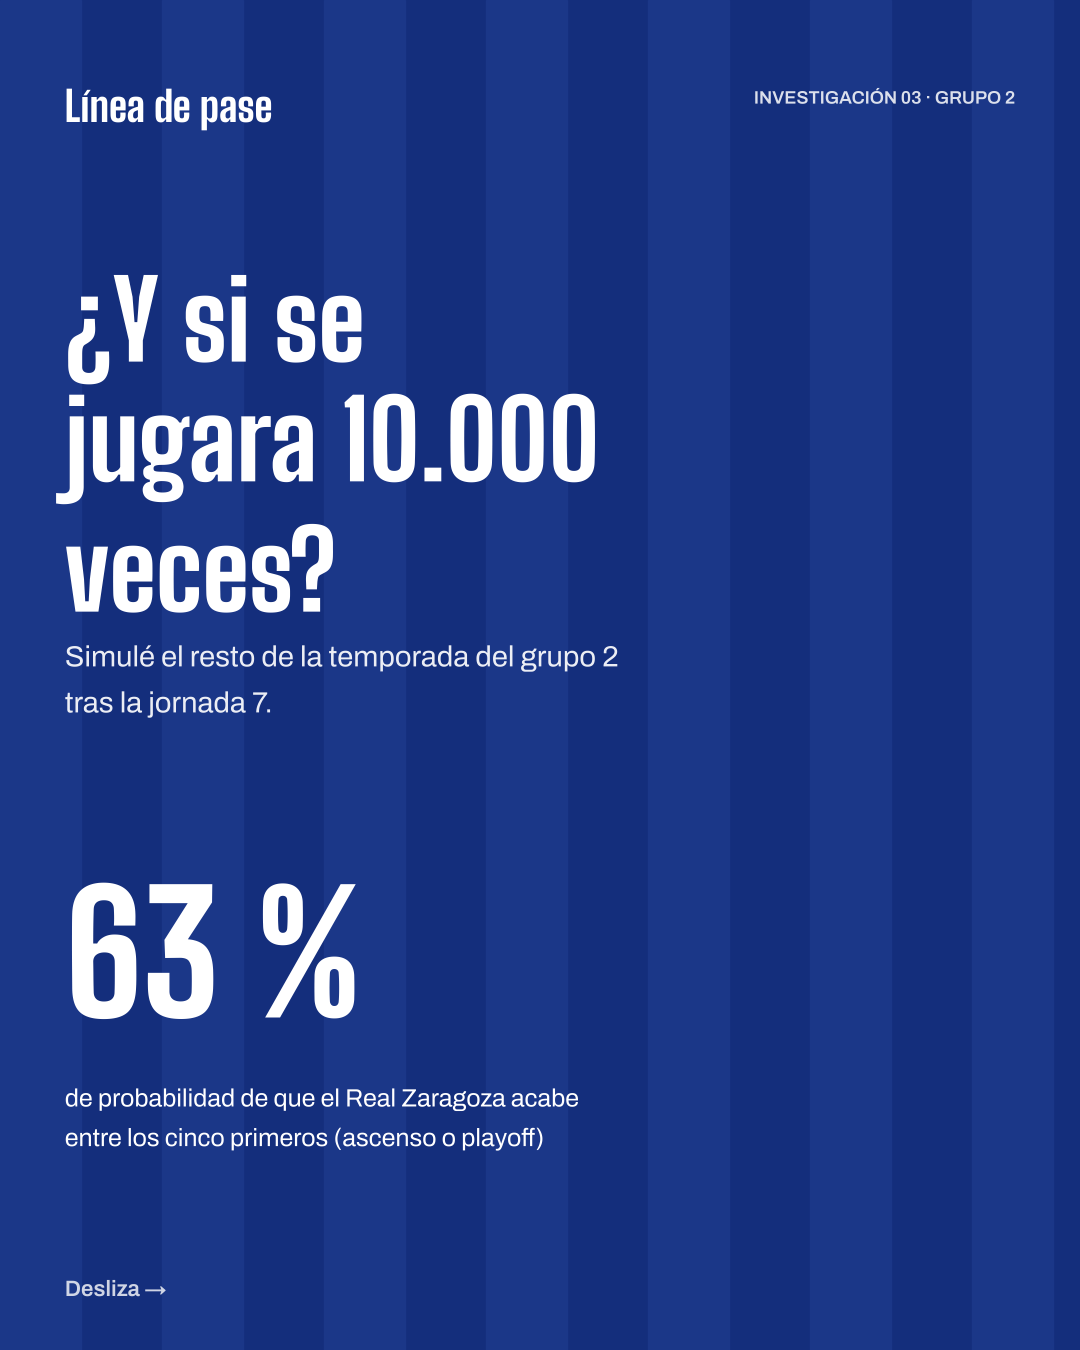
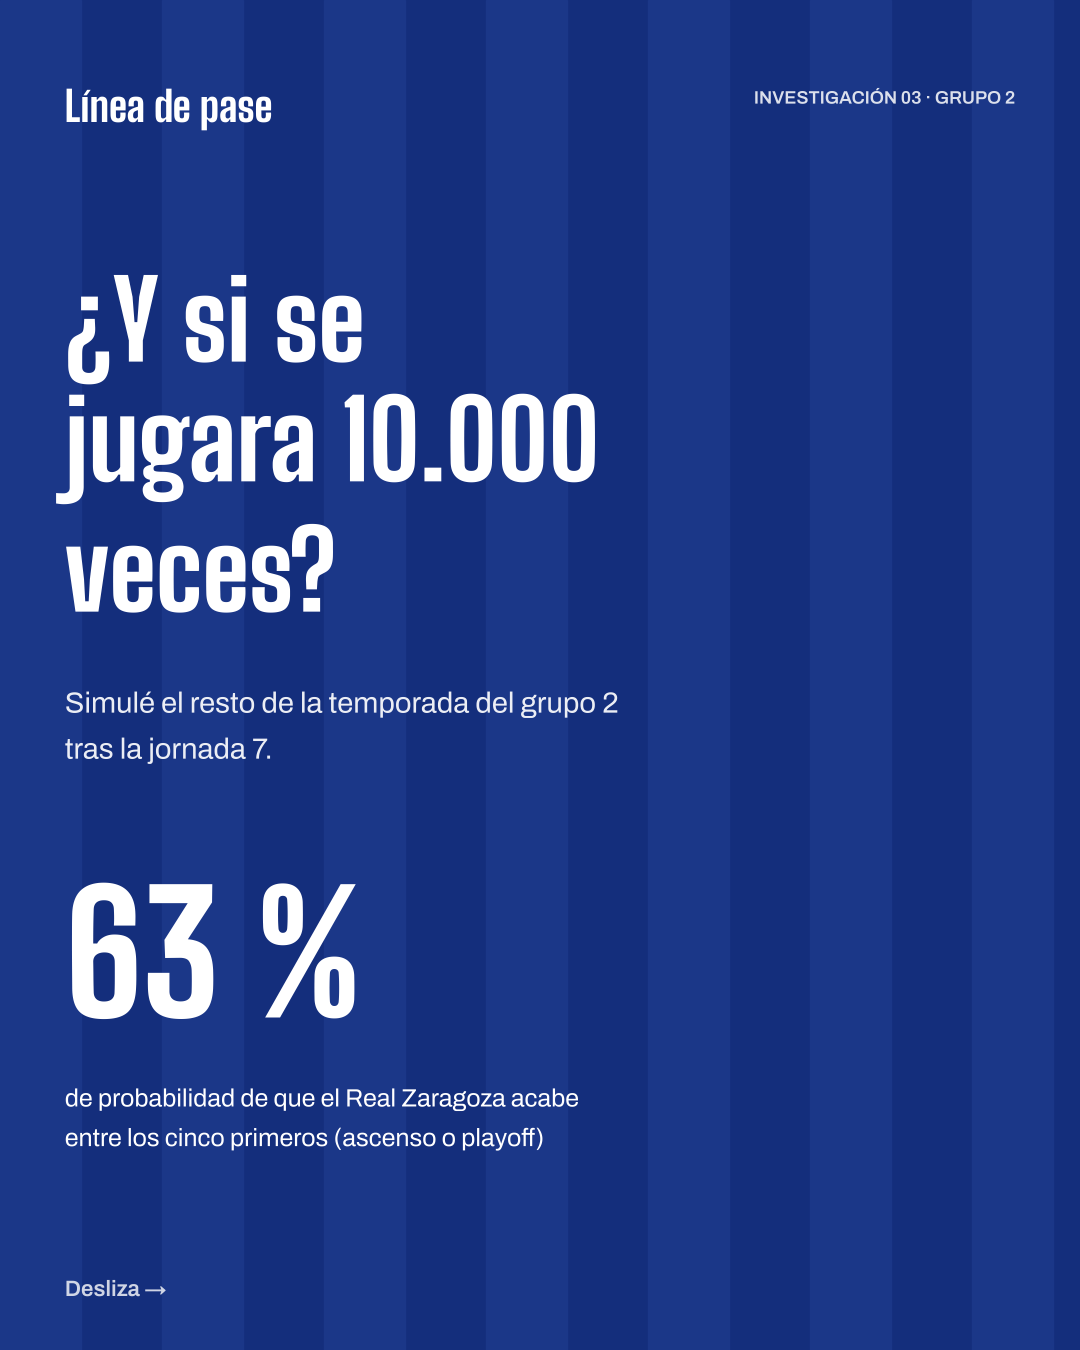
Carrusel: más aire entre el titular y la entradilla de la portada

Changed region(s): [[0.0611, 0.4667, 0.5806, 0.56]]

diff --git a/analisis/comun/estilo.py b/analisis/comun/estilo.py
@@ -260,7 +260,7 @@ def portada(titulo, entradilla, cifra="", cifra_texto="", etiqueta="", paleta="w
     ax.text(0.06, 0.80, titulo, fontfamily=TITULAR, fontweight=800, fontsize=78,
             color=c["cal"], va="top", linespacing=0.92)
     lineas = titulo.count("\n") + 1
-    y = 0.80 - lineas * 78 * PX * 1.0 / 1350 - 0.03
+    y = 0.80 - lineas * 78 * PX * 1.08 / 1350 - 0.045
     ax.text(0.06, y, entradilla, fontsize=21, color=c["cal"], alpha=0.92, va="top",
             linespacing=1.45)
     if cifra:
